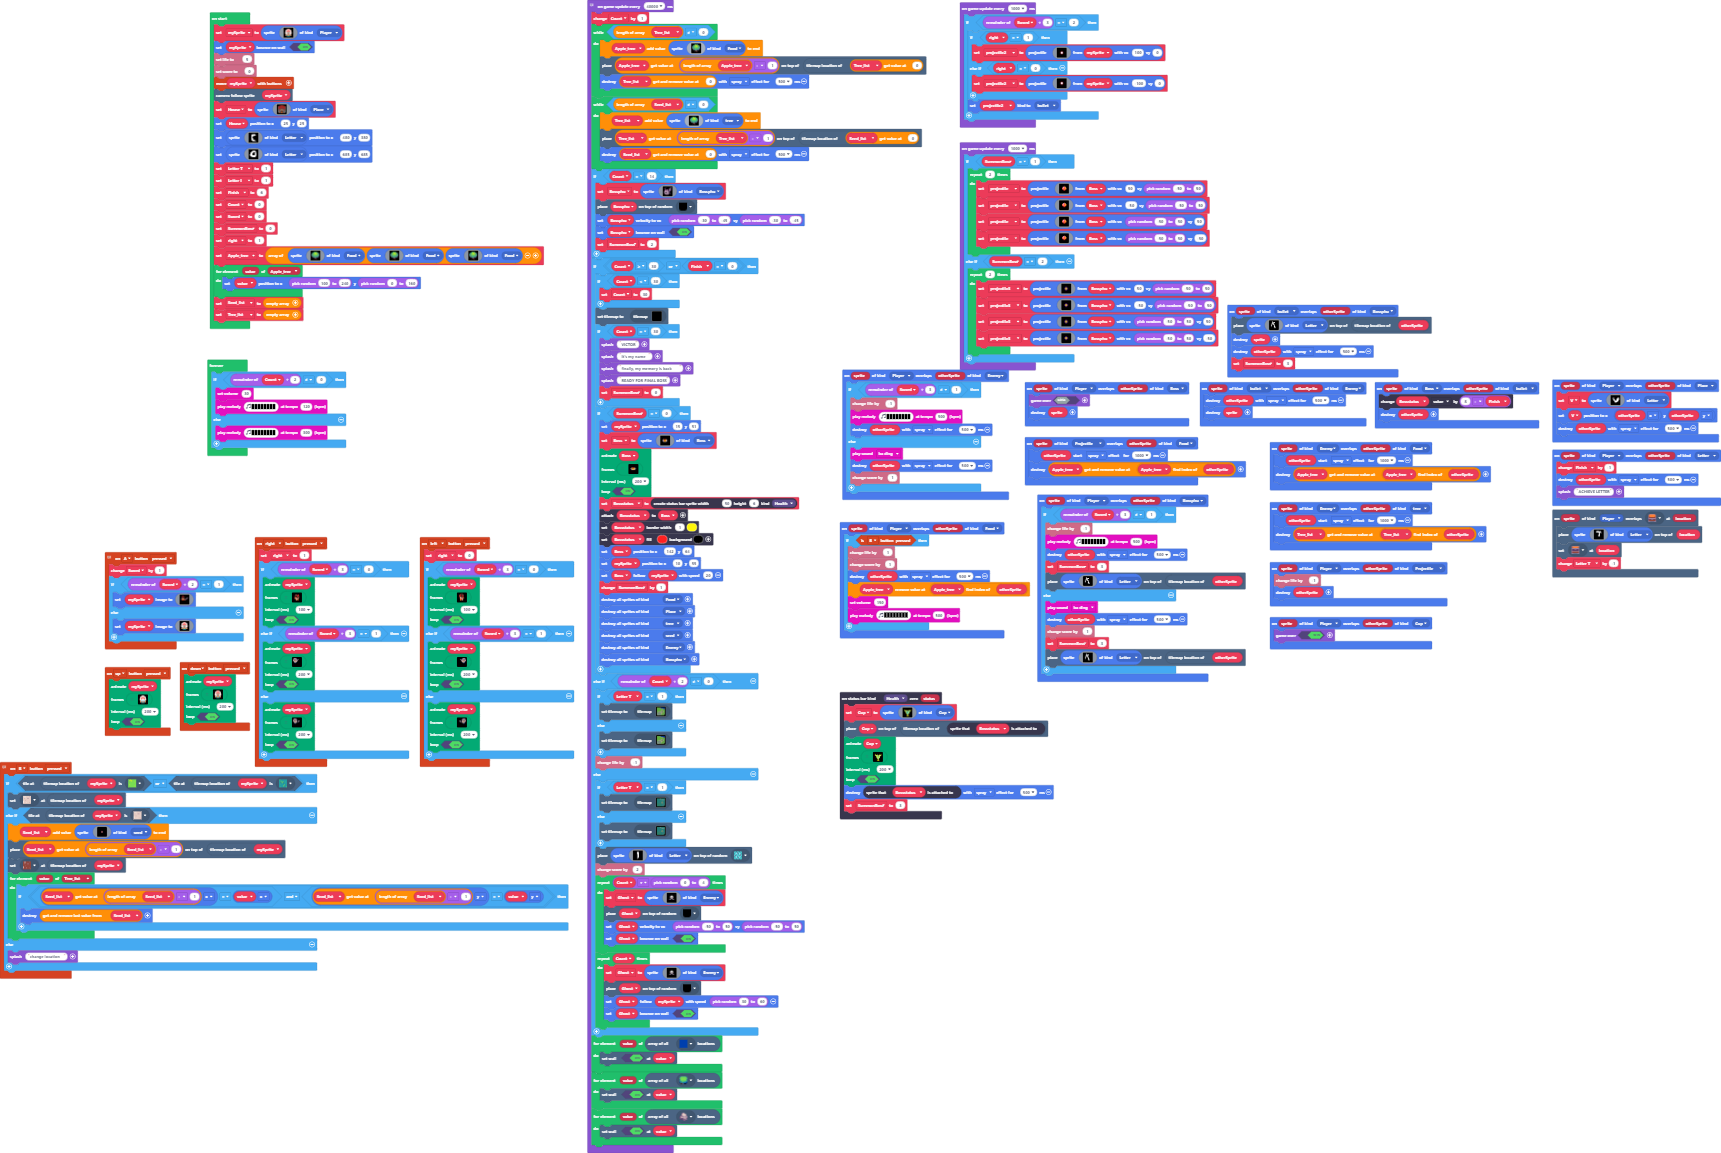
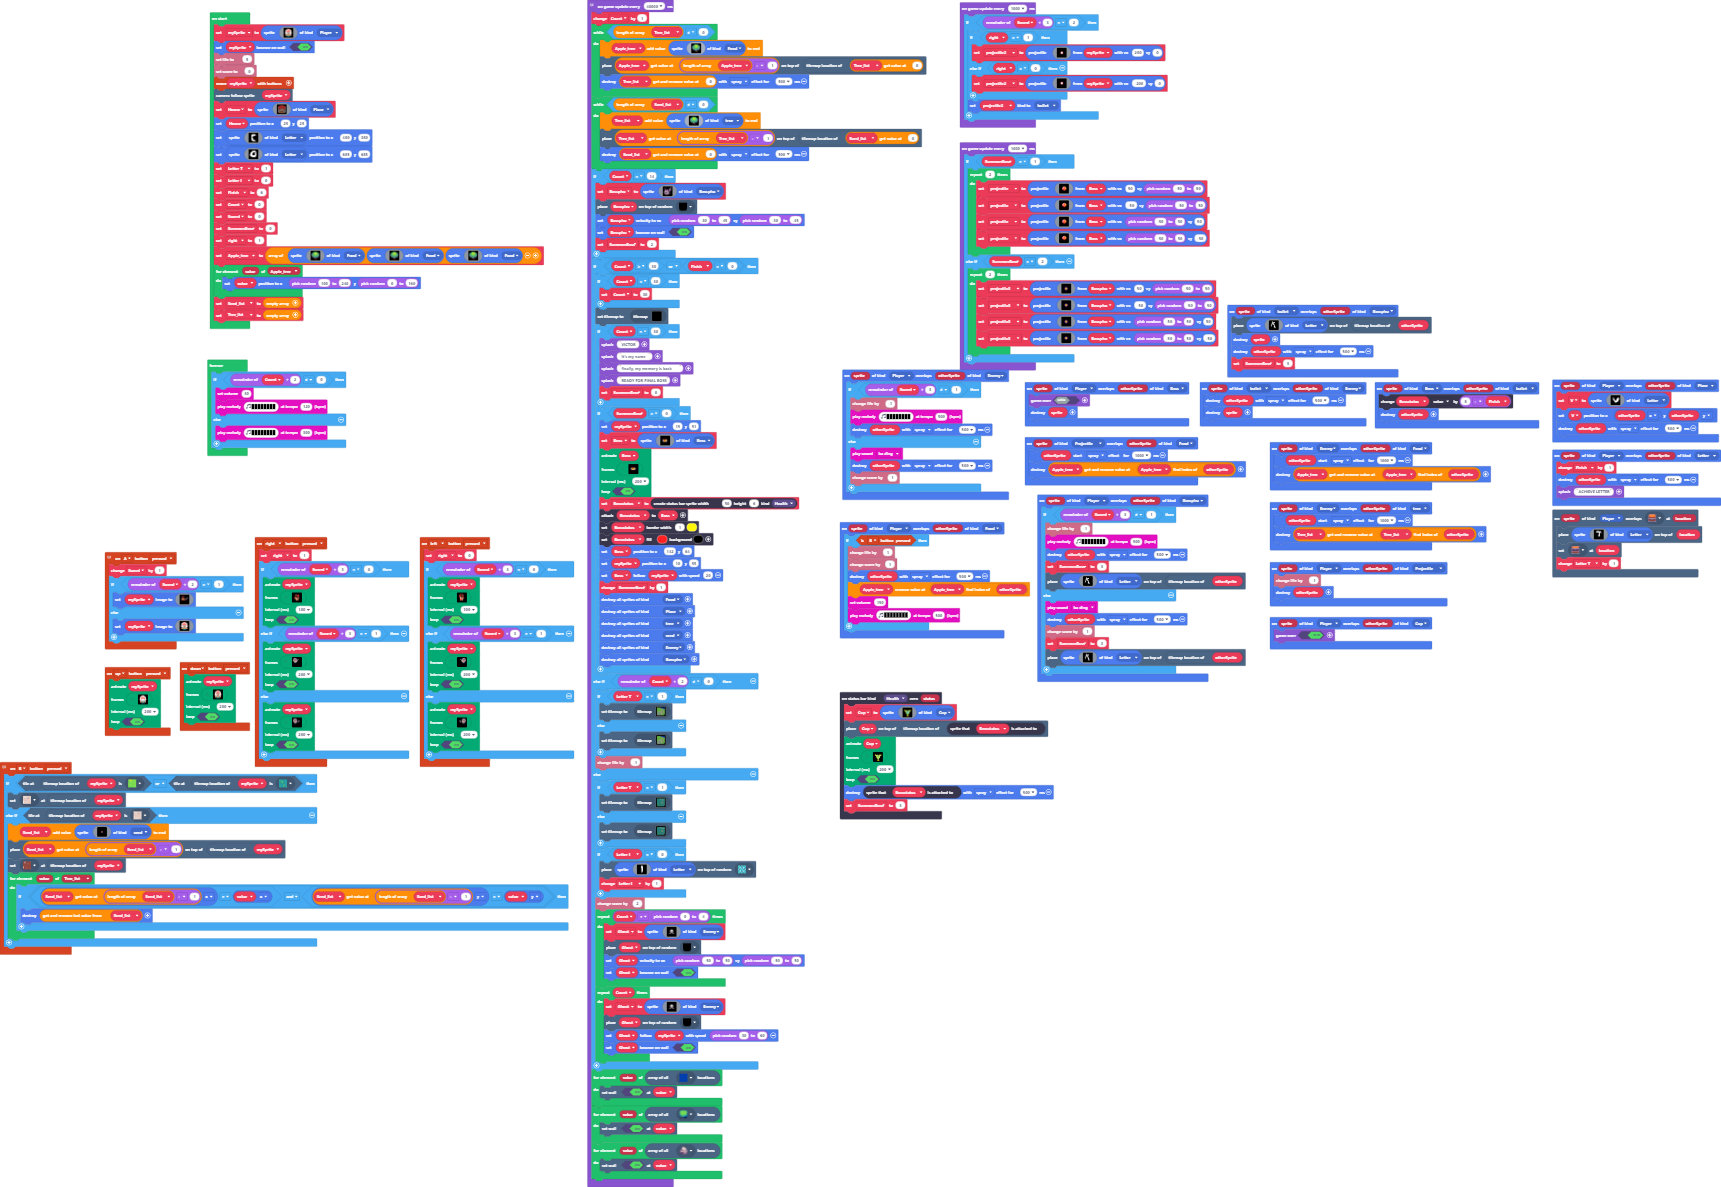
bullet speed, I letter, Splash

Changed region(s): [[0.0, 0.0, 1.0, 0.9991], [0.1232, 0.0, 0.308, 0.4059]]

diff --git a/main.ts b/main.ts
@@ -49,8 +49,6 @@ controller.B.onEvent(ControllerButtonEvent.Pressed, function () {
                 Seed_list.pop().destroy()
             }
         }
-    } else {
-        game.splash("change location")
     }
 })
 sprites.onOverlap(SpriteKind.bullet, SpriteKind.Bossphu, function (sprite, otherSprite) {
@@ -440,7 +438,7 @@ House.setPosition(25, 25)
 sprites.create(assets.image`C`, SpriteKind.Letter).setPosition(480, 380)
 sprites.create(assets.image`O`, SpriteKind.Letter).setPosition(685, 685)
 let Letter_T = 1
-let Letter_I = 1
+let Letter_I = 0
 Finish = 6
 let Count = 0
 Sword = 0
@@ -571,7 +569,7 @@ game.onUpdateInterval(1000, function () {
                 . . . . . . . . . . . . . . . . 
                 . . . . . . . . . . . . . . . . 
                 . . . . . . . . . . . . . . . . 
-                `, mySprite, 100, 0)
+                `, mySprite, 200, 0)
         } else if (right == 0) {
             projectile2 = sprites.createProjectileFromSprite(img`
                 . . . . . . . . . . . . . . . . 
@@ -590,7 +588,7 @@ game.onUpdateInterval(1000, function () {
                 . . . . . . . . . . . . . . . . 
                 . . . . . . . . . . . . . . . . 
                 . . . . . . . . . . . . . . . . 
-                `, mySprite, -100, 0)
+                `, mySprite, -200, 0)
         }
         projectile2.setKind(SpriteKind.bullet)
     }
@@ -756,7 +754,10 @@ game.onUpdateInterval(40000, function () {
         } else {
             tiles.setCurrentTilemap(tilemap`Nights1`)
         }
-        tiles.placeOnRandomTile(sprites.create(assets.image`I`, SpriteKind.Letter), sprites.dungeon.collectibleInsignia)
+        if (Letter_I == 0) {
+            tiles.placeOnRandomTile(sprites.create(assets.image`I`, SpriteKind.Letter), sprites.dungeon.collectibleInsignia)
+            Letter_I += 1
+        }
         info.changeScoreBy(2)
         for (let index = 0; index < Count + randint(0, 4); index++) {
             Ghost = sprites.create(img`
